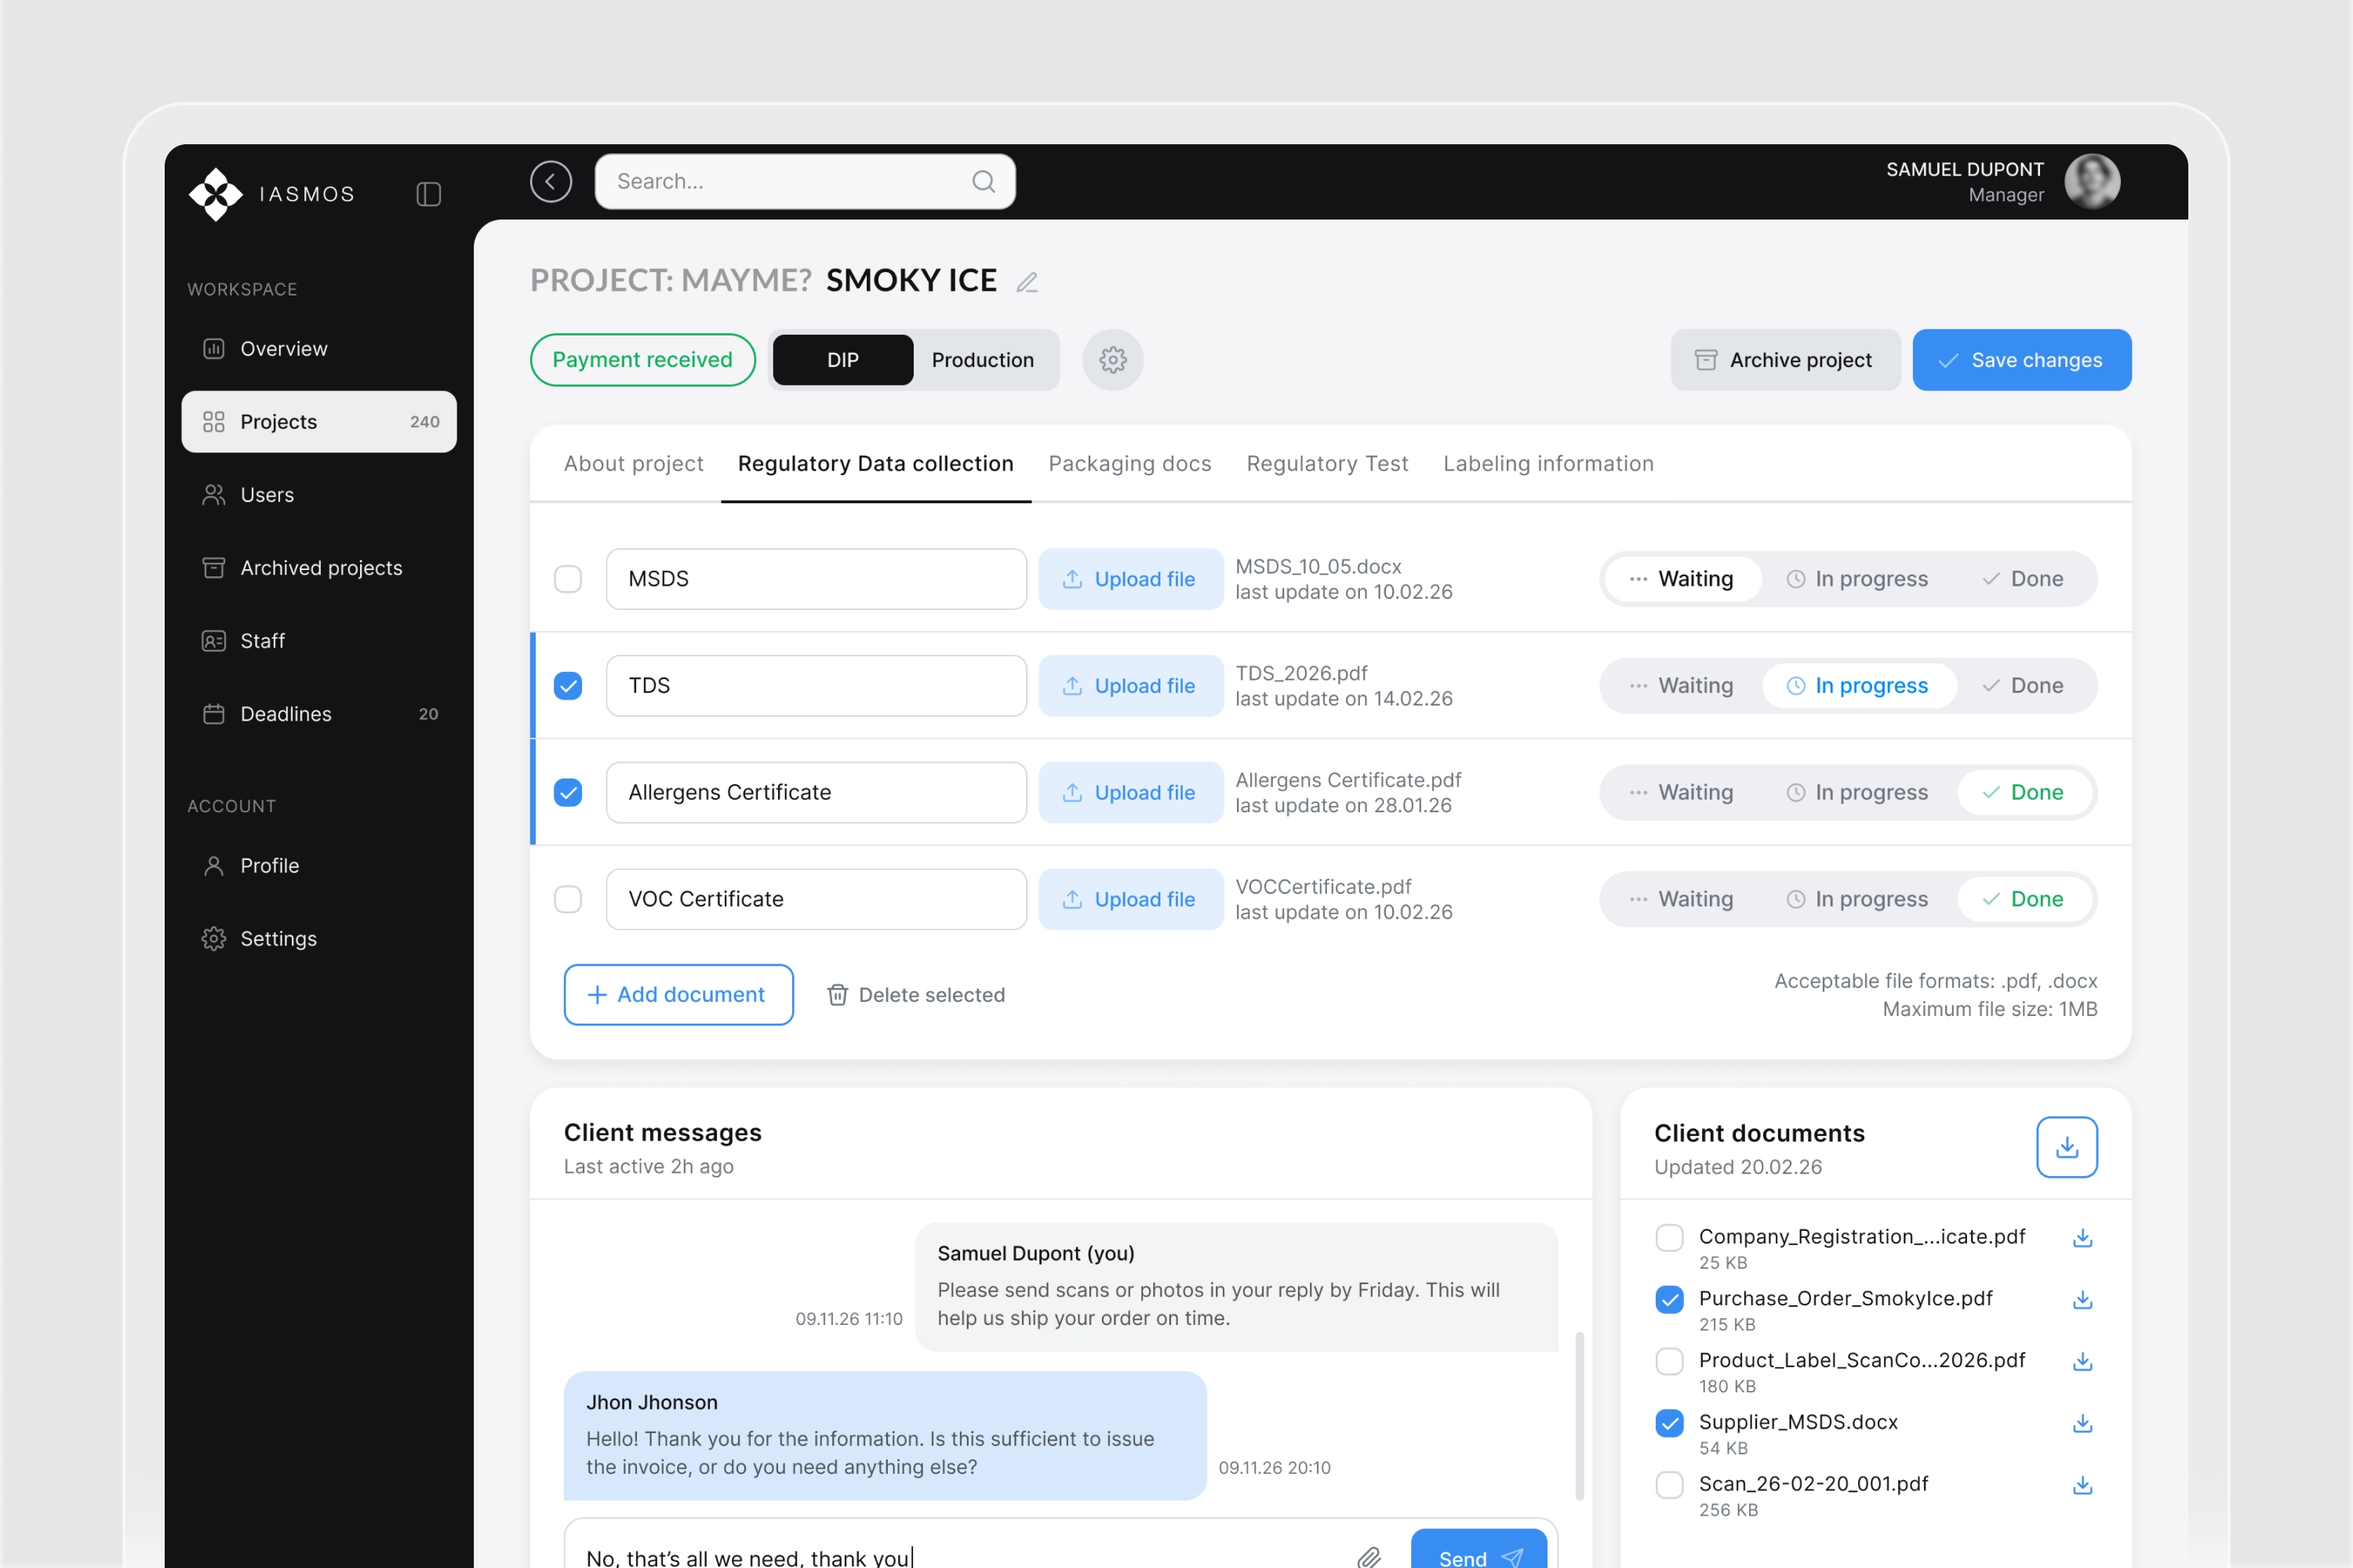
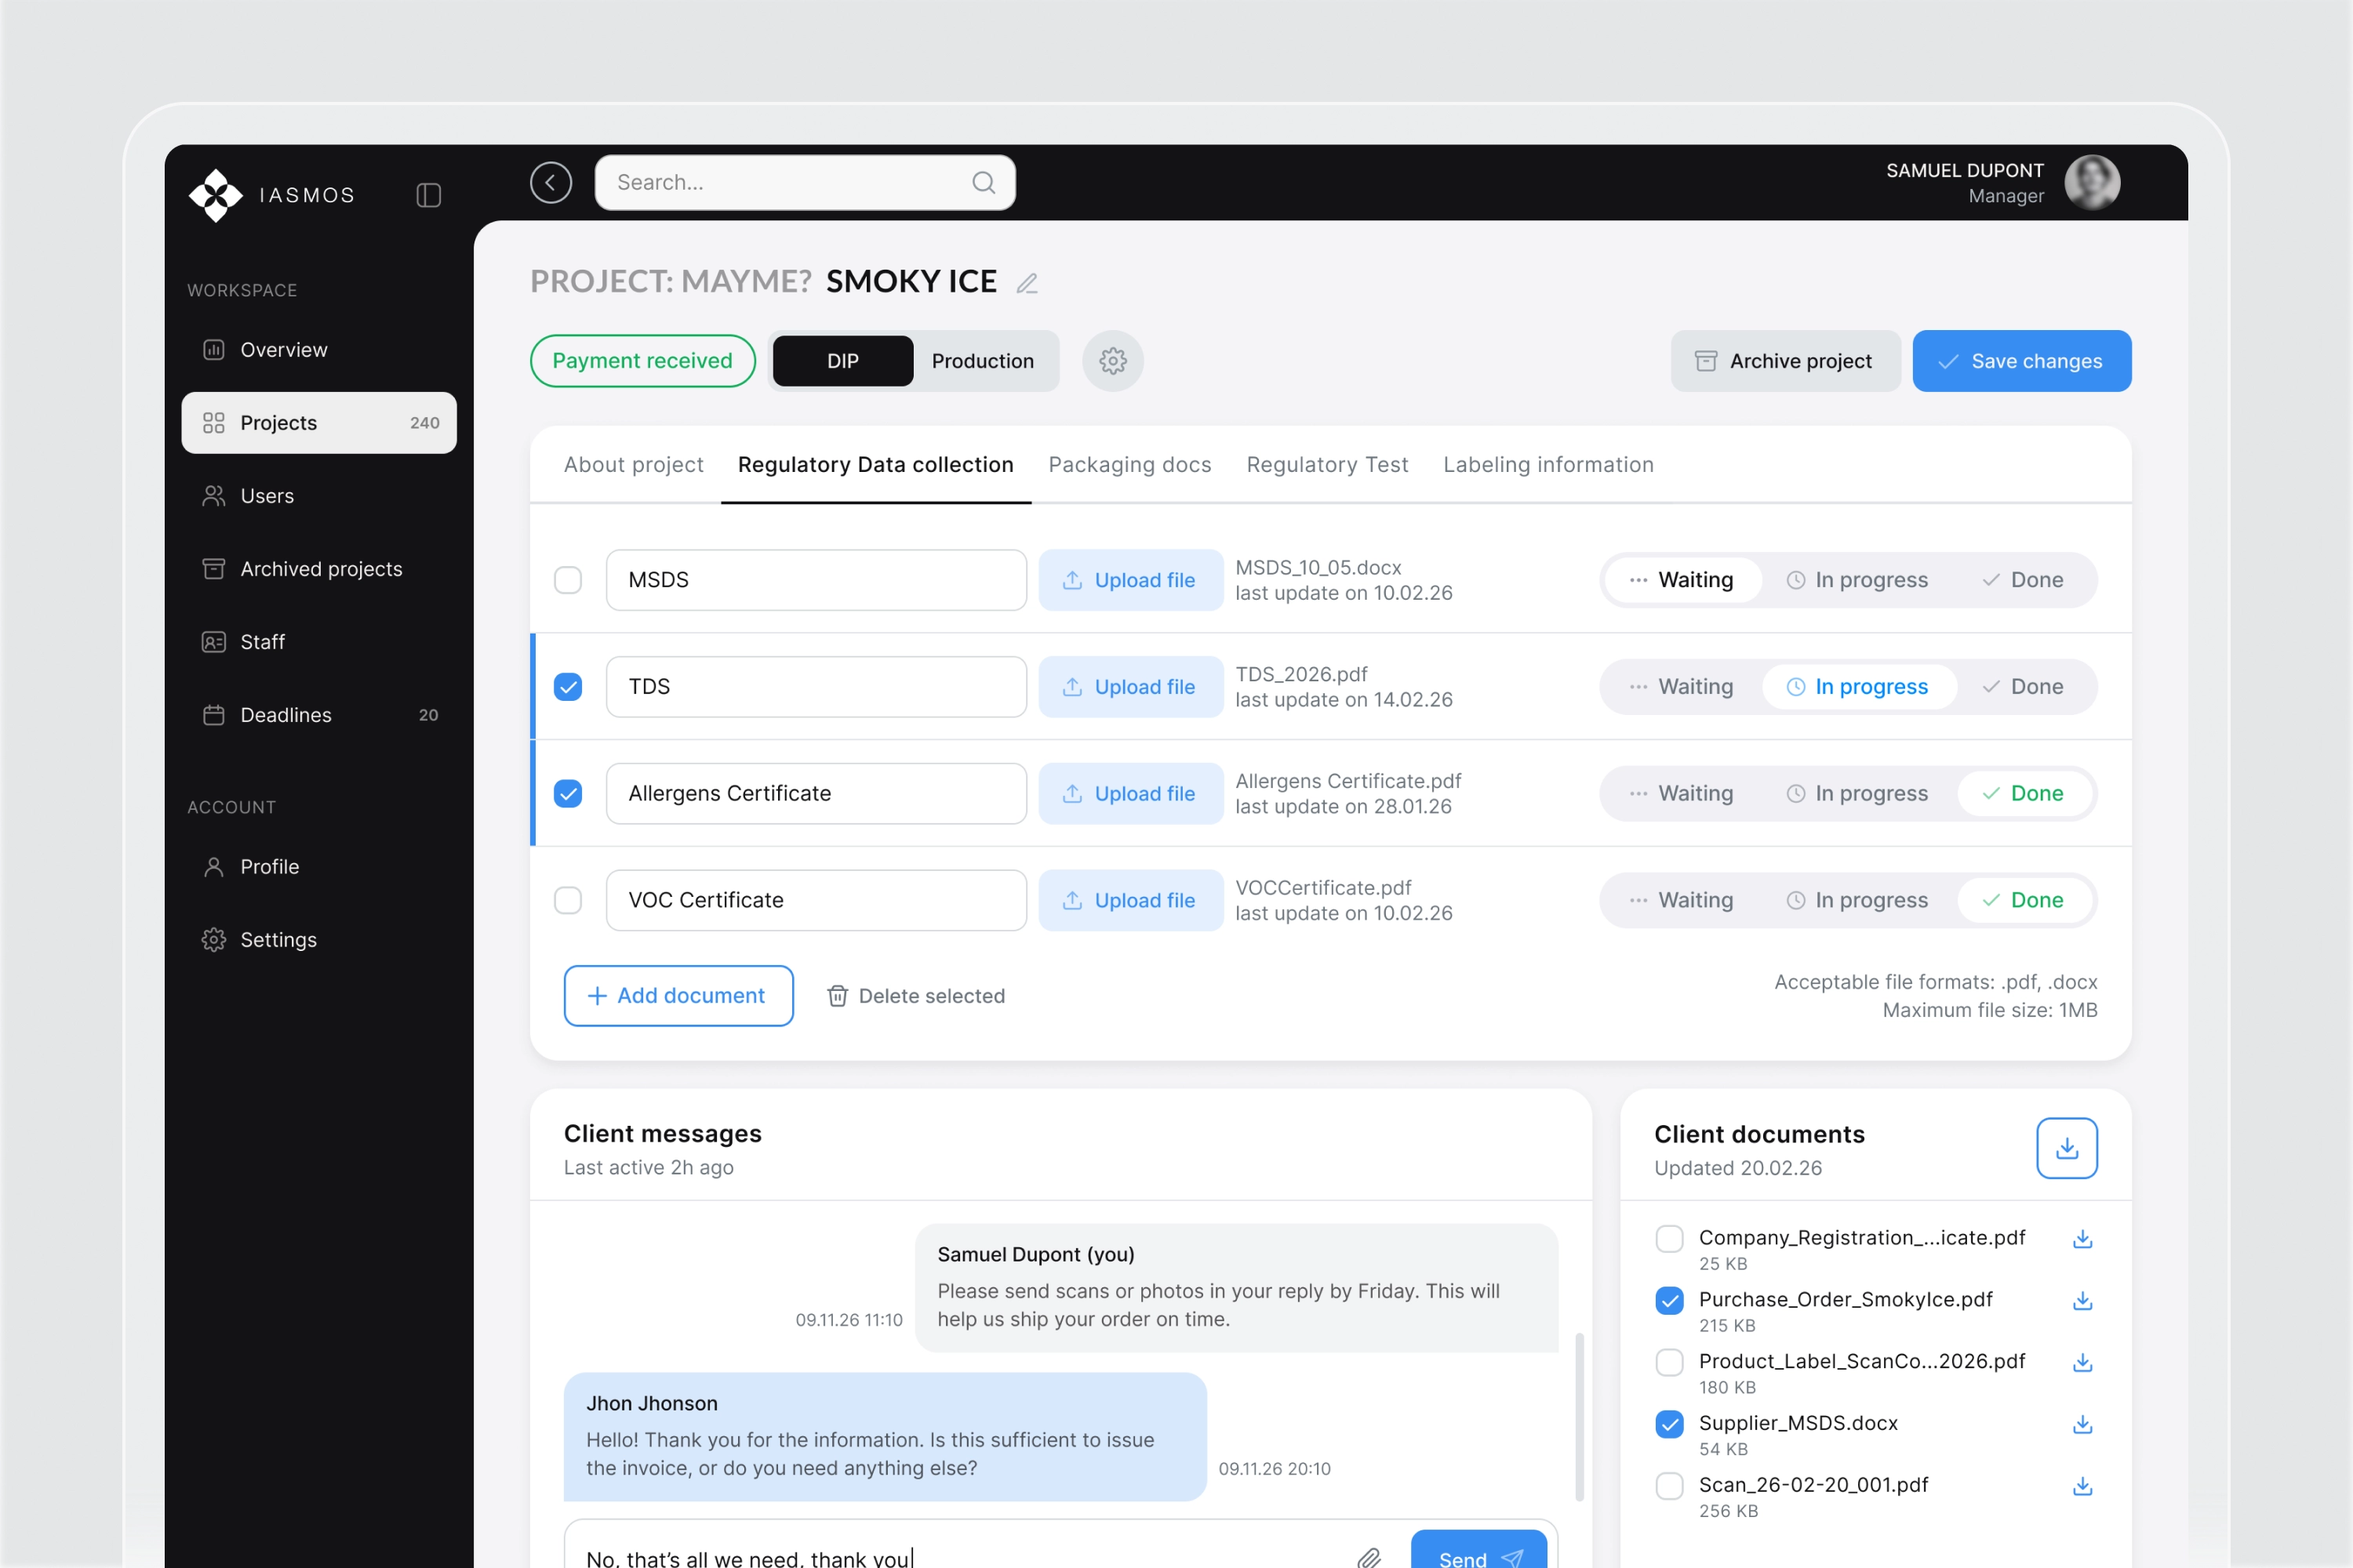
Правки 18:00

diff --git a/case-iasmos.html b/case-iasmos.html
@@ -110,17 +110,30 @@
 
   </main>
 
-  <footer class="footer container">
-    <p class="footer__title reveal">Открыта к сотрудничеству!</p>
-    <div class="footer__signature reveal">
-      <img src="assets/icons/signature.svg" width="271" height="52" alt="Для связи со мной">
-      <img class="footer__arrow" src="assets/icons/signature-arrow.svg" width="16" height="51" alt="">
+  <footer class="footer container" id="contacts">
+    <div class="contact reveal">
+      <div class="contact__intro">
+        <h2 class="contact__title">Открыта к сотрудничеству <span>и буду рада пообщаться</span></h2>
+      </div>
+
+      <ul class="contact__list">
+        <li>
+          <a class="contact__link" href="https://t.me/r_ekaterina2415" target="_blank" rel="noopener">
+            Telegram <img src="assets/icons/arrow-up-right.svg" width="16" height="16" alt="">
+          </a>
+        </li>
+        <li>
+          <a class="contact__link" href="https://tomsk.hh.ru/resume/f0d37228ff0dd548300039ed1f62696d5a6b4d?hhtmFrom=profile" target="_blank" rel="noopener">
+            HeadHunter <img src="assets/icons/arrow-up-right.svg" width="16" height="16" alt="">
+          </a>
+        </li>
+        <li>
+          <button class="contact__link" type="button" data-copy-email="r.ekaterina2415@gmail.com" aria-label="Скопировать email">
+            Email <img src="assets/icons/mail.svg" width="16" height="16" alt="">
+          </button>
+        </li>
+      </ul>
     </div>
-    <nav class="footer__menu reveal" aria-label="Контакты">
-      <a class="menu__link" href="https://t.me/r_ekaterina2415" target="_blank" rel="noopener">Telegram</a>
-      <a class="menu__link" href="https://tomsk.hh.ru/resume/f0d37228ff0dd548300039ed1f62696d5a6b4d?hhtmFrom=profile" target="_blank" rel="noopener">HeadHunter</a>
-      <button class="menu__link" type="button" data-copy-email="r.ekaterina2415@gmail.com" aria-label="Скопировать email">Email <img src="assets/icons/mail.svg" width="16" height="16" alt=""></button>
-    </nav>
   </footer>
 
   <dialog class="lightbox" aria-label="Просмотр изображения">

diff --git a/case-minidino.html b/case-minidino.html
@@ -146,17 +146,30 @@
 
   </main>
 
-  <footer class="footer container">
-    <p class="footer__title reveal">Открыта к сотрудничеству!</p>
-    <div class="footer__signature reveal">
-      <img src="assets/icons/signature.svg" width="271" height="52" alt="Для связи со мной">
-      <img class="footer__arrow" src="assets/icons/signature-arrow.svg" width="16" height="51" alt="">
+  <footer class="footer container" id="contacts">
+    <div class="contact reveal">
+      <div class="contact__intro">
+        <h2 class="contact__title">Открыта к сотрудничеству <span>и буду рада пообщаться</span></h2>
+      </div>
+
+      <ul class="contact__list">
+        <li>
+          <a class="contact__link" href="https://t.me/r_ekaterina2415" target="_blank" rel="noopener">
+            Telegram <img src="assets/icons/arrow-up-right.svg" width="16" height="16" alt="">
+          </a>
+        </li>
+        <li>
+          <a class="contact__link" href="https://tomsk.hh.ru/resume/f0d37228ff0dd548300039ed1f62696d5a6b4d?hhtmFrom=profile" target="_blank" rel="noopener">
+            HeadHunter <img src="assets/icons/arrow-up-right.svg" width="16" height="16" alt="">
+          </a>
+        </li>
+        <li>
+          <button class="contact__link" type="button" data-copy-email="r.ekaterina2415@gmail.com" aria-label="Скопировать email">
+            Email <img src="assets/icons/mail.svg" width="16" height="16" alt="">
+          </button>
+        </li>
+      </ul>
     </div>
-    <nav class="footer__menu reveal" aria-label="Контакты">
-      <a class="menu__link" href="https://t.me/r_ekaterina2415" target="_blank" rel="noopener">Telegram</a>
-      <a class="menu__link" href="https://tomsk.hh.ru/resume/f0d37228ff0dd548300039ed1f62696d5a6b4d?hhtmFrom=profile" target="_blank" rel="noopener">HeadHunter</a>
-      <button class="menu__link" type="button" data-copy-email="r.ekaterina2415@gmail.com" aria-label="Скопировать email">Email <img src="assets/icons/mail.svg" width="16" height="16" alt=""></button>
-    </nav>
   </footer>
 
   <dialog class="lightbox" aria-label="Просмотр изображения">

diff --git a/case-new-school.html b/case-new-school.html
@@ -155,17 +155,30 @@
 
   </main>
 
-  <footer class="footer container">
-    <p class="footer__title reveal">Открыта к сотрудничеству!</p>
-    <div class="footer__signature reveal">
-      <img src="assets/icons/signature.svg" width="271" height="52" alt="Для связи со мной">
-      <img class="footer__arrow" src="assets/icons/signature-arrow.svg" width="16" height="51" alt="">
+  <footer class="footer container" id="contacts">
+    <div class="contact reveal">
+      <div class="contact__intro">
+        <h2 class="contact__title">Открыта к сотрудничеству <span>и буду рада пообщаться</span></h2>
+      </div>
+
+      <ul class="contact__list">
+        <li>
+          <a class="contact__link" href="https://t.me/r_ekaterina2415" target="_blank" rel="noopener">
+            Telegram <img src="assets/icons/arrow-up-right.svg" width="16" height="16" alt="">
+          </a>
+        </li>
+        <li>
+          <a class="contact__link" href="https://tomsk.hh.ru/resume/f0d37228ff0dd548300039ed1f62696d5a6b4d?hhtmFrom=profile" target="_blank" rel="noopener">
+            HeadHunter <img src="assets/icons/arrow-up-right.svg" width="16" height="16" alt="">
+          </a>
+        </li>
+        <li>
+          <button class="contact__link" type="button" data-copy-email="r.ekaterina2415@gmail.com" aria-label="Скопировать email">
+            Email <img src="assets/icons/mail.svg" width="16" height="16" alt="">
+          </button>
+        </li>
+      </ul>
     </div>
-    <nav class="footer__menu reveal" aria-label="Контакты">
-      <a class="menu__link" href="https://t.me/r_ekaterina2415" target="_blank" rel="noopener">Telegram</a>
-      <a class="menu__link" href="https://tomsk.hh.ru/resume/f0d37228ff0dd548300039ed1f62696d5a6b4d?hhtmFrom=profile" target="_blank" rel="noopener">HeadHunter</a>
-      <button class="menu__link" type="button" data-copy-email="r.ekaterina2415@gmail.com" aria-label="Скопировать email">Email <img src="assets/icons/mail.svg" width="16" height="16" alt=""></button>
-    </nav>
   </footer>
 
   <dialog class="lightbox" aria-label="Просмотр изображения">

diff --git a/styles.css b/styles.css
@@ -159,7 +159,7 @@ button.menu__link {
   border-radius: 25px;
   background: var(--black);
   color: var(--white);
-  font-weight: 500;
+  font-weight: 400;
   font-size: 16px;
   line-height: 20px;
   white-space: nowrap;
@@ -360,14 +360,19 @@ button.menu__link {
 .case__info {
   display: flex;
   flex-direction: column;
-  gap: 8px;
+}
+.case__title {
+  margin-top: 6px;
+}
+.case__text {
+  margin-top: 8px;
 }
 
 /* Pills: the first tag (the domain) is highlighted */
 .case__tags {
   display: flex;
   flex-wrap: wrap;
-  gap: 4px;
+  gap: 3px;
   font-weight: 500;
   font-size: 13px;
   line-height: 16px;
@@ -377,26 +382,31 @@ button.menu__link {
 .case__tags span {
   padding: 4px 8px;
   border-radius: 6px;
-  background: #eef1f5;
-  color: #8e8e93;
+  background: #F2F3F4;
+  color: var(--gray);
 }
 
 .case__title {
-  margin: 0;
+  margin-top: 8px;
+  margin-bottom: 0;
   font-family: var(--font-display);
   font-weight: 500;
   font-size: 24px;
-  line-height: 40px;
+  line-height: 32px;
   letter-spacing: -0.16px;
+  transition: color 0.2s ease;
+}
+
+a.case:hover .case__title { color: var(--gray);
   color: var(--black);
   transition: color 0.3s ease;
 }
 
 .case__text {
-  margin-top: 2px;
+  margin-top: 10px;
   font-size: 16px;
   line-height: 22px;
-  color: var(--gray-3);
+  color: var(--gray);
 }
 
 a.case { cursor: pointer; }

diff --git a/case-sinftool.html b/case-sinftool.html
@@ -116,9 +116,6 @@
     <div class="contact reveal">
       <div class="contact__intro">
         <h2 class="contact__title">Открыта к сотрудничеству <span>и буду рада пообщаться</span></h2>
-        <a class="button" href="assets/rastorgueva-ekaterina-cv.pdf" target="_blank" rel="noopener">
-          Резюме <img class="button__icon" src="assets/icons/arrow-white.svg" width="16" height="16" alt="">
-        </a>
       </div>
 
       <ul class="contact__list">

diff --git a/index.html b/index.html
@@ -133,9 +133,6 @@
     <div class="contact reveal">
       <div class="contact__intro">
         <h2 class="contact__title">Открыта к сотрудничеству <span>и буду рада пообщаться</span></h2>
-        <a class="button" href="assets/rastorgueva-ekaterina-cv.pdf" target="_blank" rel="noopener">
-          Резюме <img class="button__icon" src="assets/icons/arrow-white.svg" width="16" height="16" alt="">
-        </a>
       </div>
 
       <ul class="contact__list">
